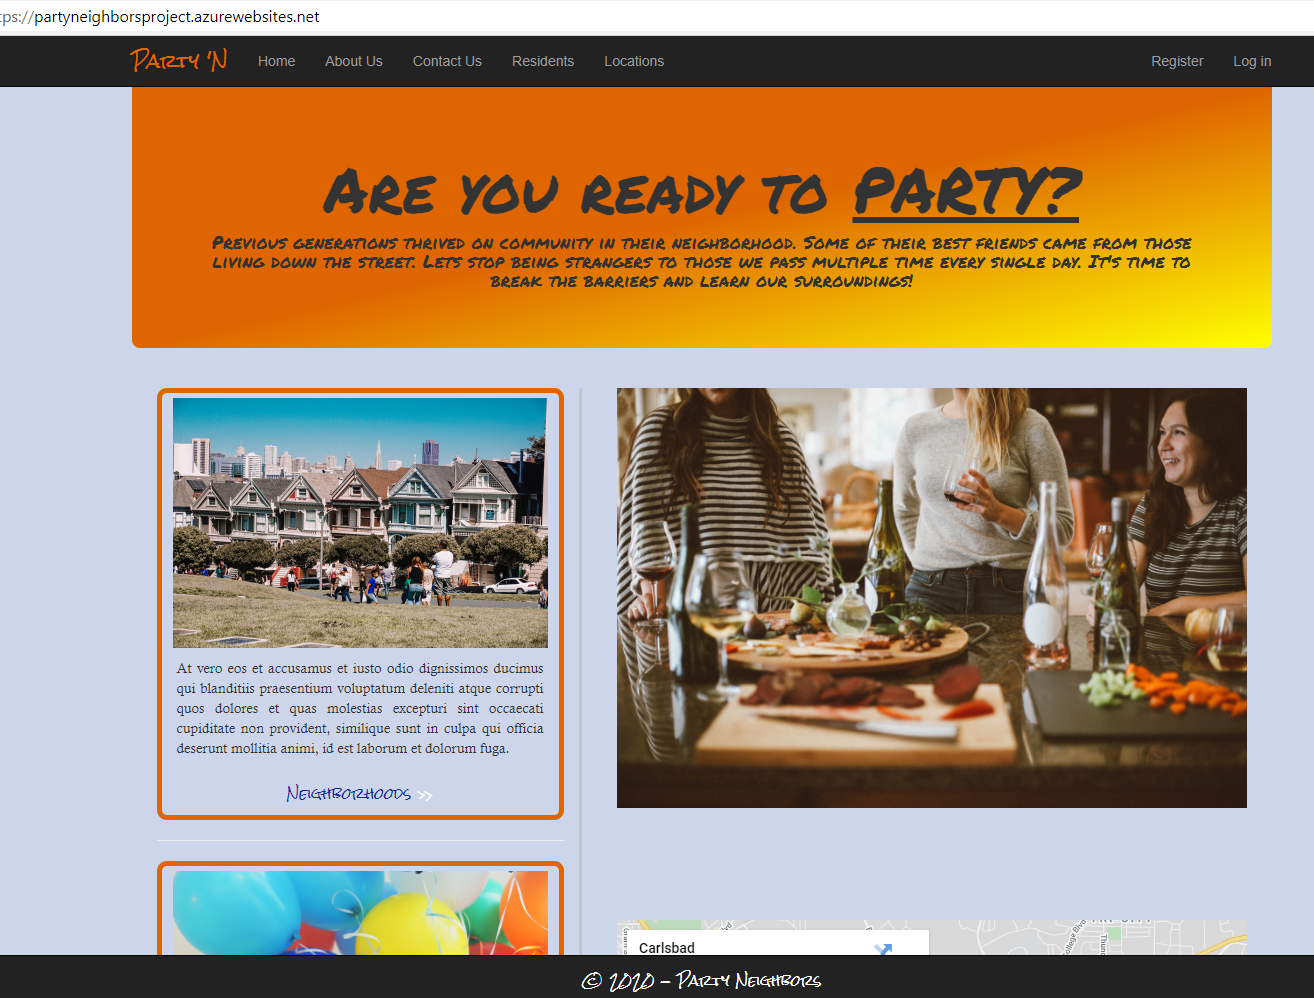
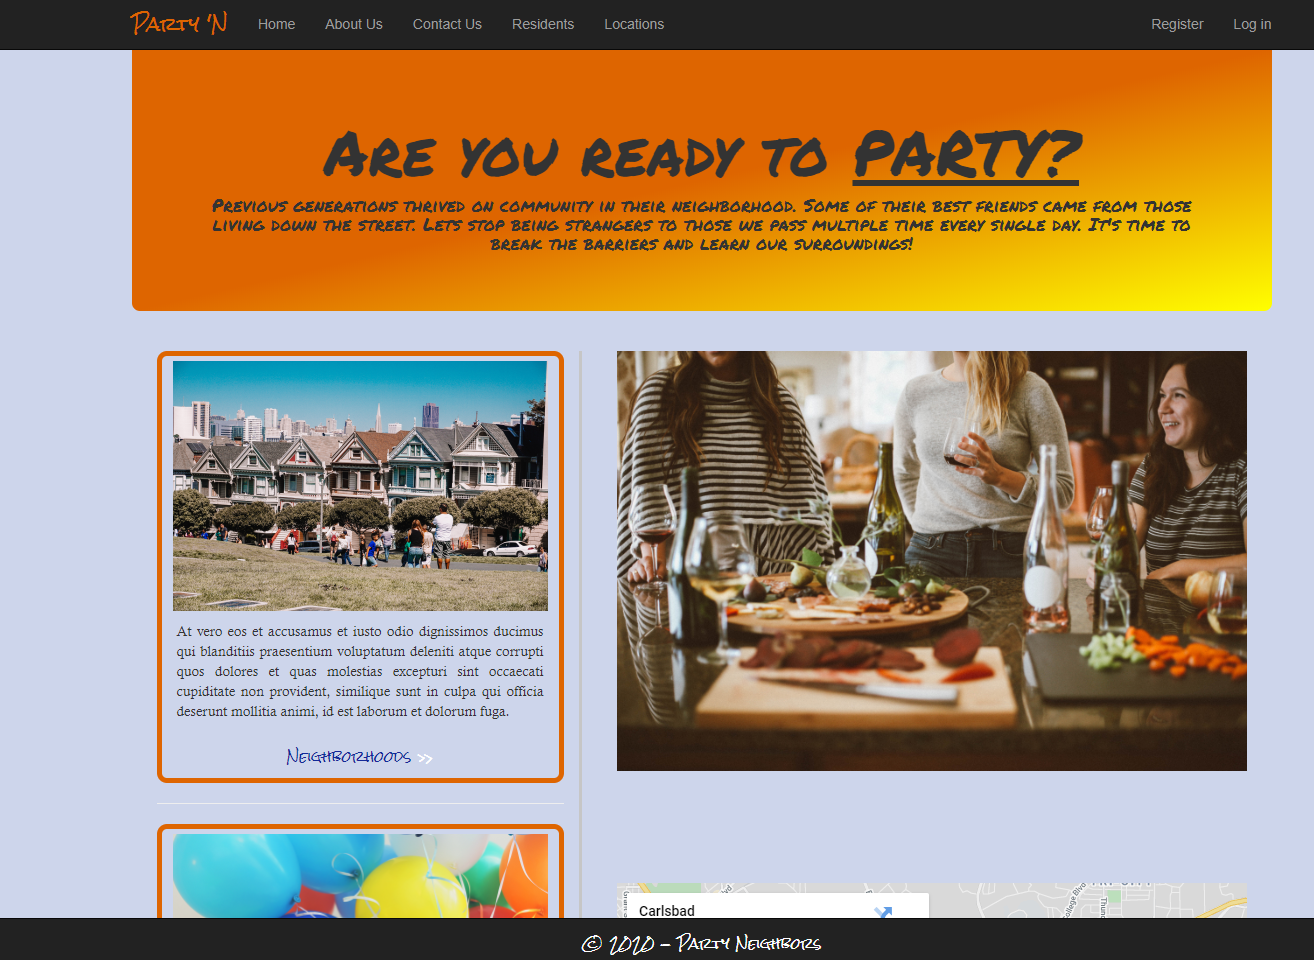
completed projects, contact, certs, and about me

diff --git a/index.html b/index.html
@@ -65,7 +65,9 @@
     </div>
 
     <!-- About Me -->
-    <div class="container container-fluid col-sm-10">
+    <div class="section container-fluid col-sm-10">
+        <h1 id="about">About Me</h1>
+
         <div class="aboutme" style="min-height: 18rem; text-align: justify;">
             <img class="selfie img-fluid rounded col-sm-4" src="./assets/Headshot.jpg"
                 alt="Michael Milroy">
@@ -90,87 +92,91 @@
     </div>
 
     <!-- Projects -->
-    <div class="container col-sm-10">
-        <!-- Card deck -->
+    <div class="section container-fluid col-sm-10">
+        <h1 id="project">Projects</h1>
         <div class="card-deck">
-            <!-- Cards -->
-            <div class="card bg-dark text-white">
-                <a href="https://mdmilroy.github.io/DoorGuessingGame/">
-                    <img src="./assets/JavascriptGuessingGame.png" class="card-img" alt="Project 1 - Javascript Guessing Game">
-                </a>
-                <div class="card-img-overlay">
-                  <h5 class="card-title">Guessing Game</h5>
-                  <p class="card-text">This is a wider card with supporting text below as a natural lead-in to additional content. This content is a little bit longer.</p>
+            <div class="row">
+                <div class="card projects">
+                    <div class="card-img-top">
+                        <a href="https://github.com/mdmilroy/PartyNeighbors.git">
+                            <img src="./assets/PartyNeighbors.png" class="projectImg" alt="Project 8 - Party Neighbors">
+                        </a>
+                    </div>
+                    <div class="card-body"></div>
+                    <div class="card-footer">Party Neighbors</div>
+                </div><div class="card projects">
+                    <div class="card-img-top">
+                        <a href="https://mdmilroy.github.io/DoorGuessingGame/">
+                            <img src="./assets/JavascriptGuessingGame.png" class="projectImg" alt="Project 1 - Javascript Guessing Game">
+                        </a>
+                    </div>
+                    <div class="card-body"></div>
+                    <div class="card-footer">Guessing Game</div>
+                </div>
+                <div class="card projects">
+                    <div class="card-img-top">
+                        <a href="https://github.com/mdmilroy/DevWork.git">
+                            <img src="./assets/DevWork.png" class="projectImg" alt="Project 5 - Dev Work Freelancer App">
+                        </a>
+                    </div>
+                    <div class="card-body"></div>
+                    <div class="card-footer">Dev Work Freelancer App</div>
+                </div>
+                <div class="card projects">
+                    <div class="card-img-top">
+                        <a href="https://github.com/mdmilroy/RestaurantRater.git">
+                            <img src="./assets/restaurantRater.png" class="projectImg" alt="Project 6 - Restaurant Rater">
+                        </a>
+                    </div>
+                    <div class="card-body"></div>
+                    <div class="card-footer">Restaurant Rater</div>
                 </div>
             </div>
-            <div class="card bg-dark text-white">
-                <a href="">
-                    <img src="./assets/StaticSite.png" class="card-img" alt="Project 2 - Static Store Front">
-                </a>
-                <div class="card-img-overlay">
-                  <h5 class="card-title">Static Store Front</h5>
-                  <p class="card-text">This is a wider card with supporting text below as a natural lead-in to additional content. This content is a little bit longer.</p>
+            <div class="row">
+                <div class="card projects">
+                    <div class="card-img-top">
+                        <a href="https://github.com/mdmilroy/ElevenNoteV2.git">
+                            <img src="./assets/ElevenNoteAPI.png" class="projectImg" alt="Project 3 - Eleven Note">
+                        </a>
+                    </div>
+                    <div class="card-body"></div>
+                    <div class="card-footer">Eleven Note API</div>
                 </div>
-            </div>
-            <div class="card bg-dark text-white">
-                <a href="https://github.com/mdmilroy/ElevenNoteV2.git">
-                    <img src="./assets/ElevenNoteAPI.png" class="card-img" alt="Project 3 - Eleven Note">
-                </a>
-                <div class="card-img-overlay">
-                  <h5 class="card-title">Eleven Note API</h5>
-                  <p class="card-text">This is a wider card with supporting text below as a natural lead-in to additional content. This content is a little bit longer.</p>
+                <div class="card projects">
+                    <div class="card-img-top">
+                        <a href="https://github.com/mdmilroy/SocialMediaAPI.git">
+                            <img src="./assets/SocialMediaAPI.png" class="projectImg" alt="Project 4 - 24-hour Social Media App">
+                        </a>
+                    </div>
+                    <div class="card-body"></div>
+                    <div class="card-footer">24-hour Build</div>
                 </div>
-            </div>
-            <div class="card bg-dark text-white">
-                <a href="https://github.com/mdmilroy/SocialMediaAPI.git">
-                    <img src="./assets/SocialMediaAPI.png" class="card-img" alt="Project 4 - 24-hour Social Media App">
-                </a>
-                <div class="card-img-overlay">
-                  <h5 class="card-title">24-hour Build</h5>
-                  <p class="card-text">This is a wider card with supporting text below as a natural lead-in to additional content. This content is a little bit longer.</p>
+                <div class="card projects">
+                    <div class="card-img-top">
+                        <a href="https://github.com/mdmilroy/FirstConsoleApp.git">
+                            <img src="./assets/dungeonGame.png" class="projectImg" alt="Project 7 - Dungeon Game Console App">
+                        </a>
+                    </div>
+                    <div class="card-body"></div>
+                    <div class="card-footer">Dungeon Game Console App</div>
                 </div>
-            </div>
-            <div class="card bg-dark text-white">
-                <a href="https://github.com/mdmilroy/DevWork.git">
-                    <img src="./assets/DevWork.png" class="card-img" alt="Project 5 - Dev Work Freelancer App">
-                </a>
-                <div class="card-img-overlay">
-                  <h5 class="card-title">Dev Work Freelancer App</h5>
-                  <p class="card-text">This is a wider card with supporting text below as a natural lead-in to additional content. This content is a little bit longer.</p>
-                </div>
-            </div>
-            <div class="card bg-dark text-white">
-                <a href="https://github.com/mdmilroy/RestaurantRater.git">
-                    <img src="./assets/restaurantRater.png" class="card-img" alt="Project 6 - Restaurant Rater">
-                </a>
-                <div class="card-img-overlay">
-                  <h5 class="card-title">Restaurant Rater</h5>
-                  <p class="card-text">This is a wider card with supporting text below as a natural lead-in to additional content. This content is a little bit longer.</p>
-                </div>
-            </div>
-            <div class="card bg-dark text-white">
-                <a href="https://github.com/mdmilroy/FirstConsoleApp.git">
-                    <img src="./assets/dungeonGame.png" class="card-img" alt="Project 7 - Dungeon Game Console App">
-                </a>
-                <div class="card-img-overlay">
-                  <h5 class="card-title">Dungeon Game Console App</h5>
-                  <p class="card-text">This is a wider card with supporting text below as a natural lead-in to additional content. This content is a little bit longer.</p>
-                </div>
-            </div>
-            <div class="card bg-dark text-white">
-                <a href="https://github.com/mdmilroy/PartyNeighbors.git">
-                    <img src="./assets/PartyNeighbors.png" class="card-img" alt="Project 8 - Party Neighbors">
-                </a>
-                <div class="card-img-overlay">
-                  <h5 class="card-title">Party Neighbors</h5>
-                  <p class="card-text">This is a wider card with supporting text below as a natural lead-in to additional content. This content is a little bit longer.</p>
+                <div class="card projects">
+                    <div class="card-img-top">
+                        <a href="">
+                            <img src="./assets/StaticSite.png" class="projectImg" alt="Project 2 - Static Store Front">
+                        </a>
+                    </div>
+                    <div class="card-body"></div>
+                    <div class="card-footer">Static Store Front</div>
                 </div>
             </div>
         </div>
     </div>
 
     <!-- Certifications -->
-    <div class="container col-sm-10">
+    <div class="section container-fluid col-sm-10">
+        <h1 id="certifications">Certifications</h1>
+
         <!-- Card deck -->
         <div class="card-deck">
             <div class="row">
@@ -185,14 +191,14 @@
                             </div>
                             <div class="col-md-8">
                                 <div class="card-text">
-                                    Foundational understanding of ASO.Net and Wep API development. Beginning to understand the Software Development Life Cycle,
+                                    Foundational understanding of ASP.Net and Wep API development. Beginning to understand the Software Development Life Cycle,
                                         collaboration, applied problem solving, and debugging skills.
                                 </div>
                             </div>
                         </div>
                     </div>
                     <div class="card-footer .bg-white">
-                            ASO.Net Web API, REST, Razor, C#, HTML, CSS, Bootstrap, GIT, Github
+                            ASP.Net Web API, REST, Razor, C#, HTML, CSS, Bootstrap, GIT, Github
                     </div>
                     <div class="card-footer">No Expiration</div>
                 </div>
@@ -219,7 +225,8 @@
                     </div>
                     <div class="card-footer">No Expiration</div>
                 </div>  
-            </div>            <div class="row">
+            </div>
+            <div class="row">
                 <div class="card">
                     <div class="card-header">SAFe Program Consultant 5</div>
                     <div class="card-body">
@@ -370,7 +377,7 @@
     </div>
 
     <!-- Skills -->
-    <div class="container col-sm-10">
+    <!-- <div class="container col-sm-10">
         <div class="row">
             <div class="container col-sm-6">
                 <h2 class="text-center mt-0">Top Skills</h2>
@@ -433,10 +440,10 @@
                         </div>
                     </div>
                 </div>
-            </div>
+            </div> -->
 
             <!-- Recommendations -->
-            <div id="carouselExampleIndicators" class="carousel slide col-sm-6" data-ride="carousel">
+            <!-- <div id="carouselExampleIndicators" class="carousel slide col-sm-6" data-ride="carousel">
                 <ol class="carousel-indicators">
                     <li data-target="#carouselExampleIndicators" data-slide-to="0" class="active"></li>
                     <li data-target="#carouselExampleIndicators" data-slide-to="1"></li>
@@ -463,10 +470,10 @@
                 </a>
             </div>
         </div>
-    </div>
+    </div> -->
 
     <!-- Connect form -->
-    <div class="container col-sm-10" >
+    <div class="section container-fluid col-sm-10 connectForm" >
         <h1 id="connect">LET'S CONNECT</h1>
         <div class="row">
             <div class="contact col-sm-10 rounded" style="margin-bottom: 8rem;">
@@ -512,9 +519,9 @@
     </div>
 
     <!-- Footer -->
-    <div>
+    <footer>
         <h3>&copy;2020 Michael Milroy</h3>
-    </div>
+    </footer>
 
     <!-- Bootstrap JS -->
     <script src="https://code.jquery.com/jquery-3.5.1.slim.min.js" integrity="sha384-DfXdz2htPH0lsSSs5nCTpuj/zy4C+OGpamoFVy38MVBnE+IbbVYUew+OrCXaRkfj" crossorigin="anonymous"></script>

diff --git a/style.css b/style.css
@@ -8,12 +8,21 @@
   background-color: transparent;
 }
 
+.section
+{
+  position: relative;
+  margin-top: 2rem;
+}
+
 .container {
   border: thin black solid;
-  display: flex;
+}
+
+.flex-container {
   align-content: center;
   justify-content: center;
-  margin: 5rem auto;
+  flex-direction: row;
+  flex-wrap: wrap;
 }
 
 .selfie
@@ -35,28 +44,40 @@
 
 .card
 {
-  text-align: center;
   width: 50%;
   height: 100%;
 }
 
+  .projects img {
+    width: 100%;
+    height: 100%;
+  }
+
 .certimg 
 {
   margin: auto;
-  height: 100%;
-  width: 100%;
-  width: 5rem;
-  max-width: 10rem;
-  height: 5rem;
-  max-height: 10rem;
+  width: 10rem;
+  max-width: 15rem;
+  height: 10rem;
+  max-height: 15rem;
 }
 
 .card-footer {
   margin: 0;
+  width: 100%;
+  height: auto;
+  text-align: center;
 }
 
-#skills {
-  background-color: transparent !important;
+footer, .reset {
+  display: flex;
+  align-content: center;
+  justify-content: center;
+  margin-top: 1rem;
+}
+
+.contact {
+  margin: auto;
 }
 
 /* ---------------Social Media--------------- */
